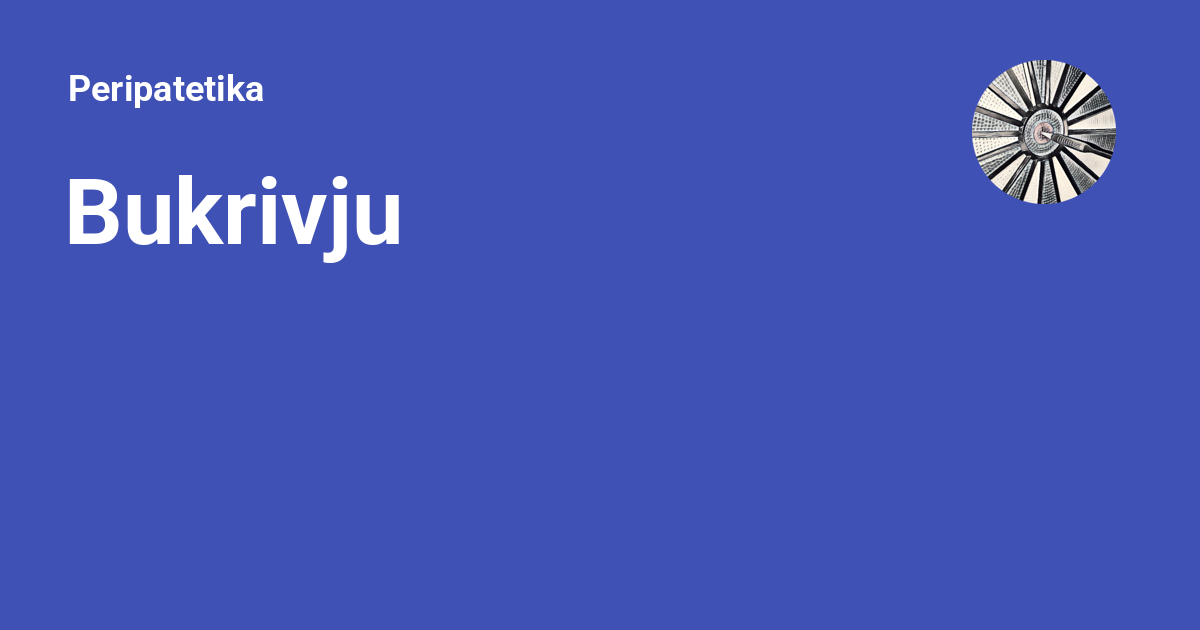
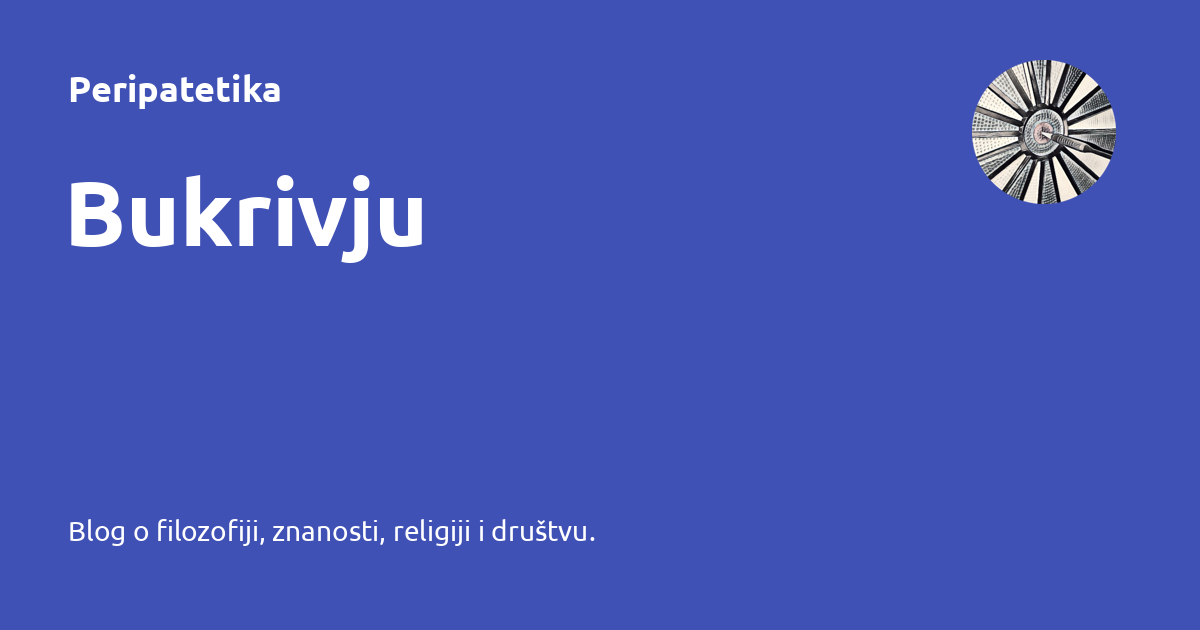
Deployed fa14e22 with MkDocs version: 1.6.1

Changed region(s): [[0.0617, 0.2714, 0.37, 0.4222], [0.0617, 0.8143, 0.4933, 0.8746], [0.0617, 0.1206, 0.2467, 0.181]]

diff --git a/zen-umjetnost-odrzavanja-motocikla-1/index.html b/zen-umjetnost-odrzavanja-motocikla-1/index.html
@@ -6,6 +6,8 @@
       <meta charset="utf-8">
       <meta name="viewport" content="width=device-width,initial-scale=1">
       
+        <meta name="description" content="Blog o filozofiji, znanosti, religiji i društvu.">
+      
       
       
         <link rel="canonical" href="https://peripatetika.com/zen-umjetnost-odrzavanja-motocikla-1/">
@@ -41,8 +43,8 @@
         
         
         <link rel="preconnect" href="https://fonts.gstatic.com" crossorigin>
-        <link rel="stylesheet" href="https://fonts.googleapis.com/css?family=Roboto:300,300i,400,400i,700,700i%7CRoboto+Mono:400,400i,700,700i&display=fallback">
-        <style>:root{--md-text-font:"Roboto";--md-code-font:"Roboto Mono"}</style>
+        <link rel="stylesheet" href="https://fonts.googleapis.com/css?family=Ubuntu:300,300i,400,400i,700,700i%7CRoboto+Mono:400,400i,700,700i&display=fallback">
+        <style>:root{--md-text-font:"Ubuntu";--md-code-font:"Roboto Mono"}</style>
       
     
     
@@ -59,7 +61,7 @@
       
         <meta  property="og:title"  content="Zen i umjetnost održavanja motocikla (1. dio) - Peripatetika" >
       
-        <meta  property="og:description"  content="None" >
+        <meta  property="og:description"  content="Blog o filozofiji, znanosti, religiji i društvu." >
       
         <meta  property="og:image"  content="https://peripatetika.com/assets/images/social/posts/2025_4_ZAMM_1.png" >
       
@@ -75,7 +77,7 @@
       
         <meta  name="twitter:title"  content="Zen i umjetnost održavanja motocikla (1. dio) - Peripatetika" >
       
-        <meta  name="twitter:description"  content="None" >
+        <meta  name="twitter:description"  content="Blog o filozofiji, znanosti, religiji i društvu." >
       
         <meta  name="twitter:image"  content="https://peripatetika.com/assets/images/social/posts/2025_4_ZAMM_1.png" >
       

diff --git a/par-rijeci-o-determinizmu/index.html b/par-rijeci-o-determinizmu/index.html
@@ -6,6 +6,8 @@
       <meta charset="utf-8">
       <meta name="viewport" content="width=device-width,initial-scale=1">
       
+        <meta name="description" content="Blog o filozofiji, znanosti, religiji i društvu.">
+      
       
       
         <link rel="canonical" href="https://peripatetika.com/par-rijeci-o-determinizmu/">
@@ -41,8 +43,8 @@
         
         
         <link rel="preconnect" href="https://fonts.gstatic.com" crossorigin>
-        <link rel="stylesheet" href="https://fonts.googleapis.com/css?family=Roboto:300,300i,400,400i,700,700i%7CRoboto+Mono:400,400i,700,700i&display=fallback">
-        <style>:root{--md-text-font:"Roboto";--md-code-font:"Roboto Mono"}</style>
+        <link rel="stylesheet" href="https://fonts.googleapis.com/css?family=Ubuntu:300,300i,400,400i,700,700i%7CRoboto+Mono:400,400i,700,700i&display=fallback">
+        <style>:root{--md-text-font:"Ubuntu";--md-code-font:"Roboto Mono"}</style>
       
     
     
@@ -59,7 +61,7 @@
       
         <meta  property="og:title"  content="Par riječi o determinizmu - Peripatetika" >
       
-        <meta  property="og:description"  content="None" >
+        <meta  property="og:description"  content="Blog o filozofiji, znanosti, religiji i društvu." >
       
         <meta  property="og:image"  content="https://peripatetika.com/assets/images/social/posts/2025_3_determinism.png" >
       
@@ -75,7 +77,7 @@
       
         <meta  name="twitter:title"  content="Par riječi o determinizmu - Peripatetika" >
       
-        <meta  name="twitter:description"  content="None" >
+        <meta  name="twitter:description"  content="Blog o filozofiji, znanosti, religiji i društvu." >
       
         <meta  name="twitter:image"  content="https://peripatetika.com/assets/images/social/posts/2025_3_determinism.png" >
       

diff --git a/category/filozofija/index.html b/category/filozofija/index.html
@@ -6,6 +6,8 @@
       <meta charset="utf-8">
       <meta name="viewport" content="width=device-width,initial-scale=1">
       
+        <meta name="description" content="Blog o filozofiji, znanosti, religiji i društvu.">
+      
       
       
         <link rel="canonical" href="https://peripatetika.com/category/filozofija/">
@@ -43,8 +45,8 @@
         
         
         <link rel="preconnect" href="https://fonts.gstatic.com" crossorigin>
-        <link rel="stylesheet" href="https://fonts.googleapis.com/css?family=Roboto:300,300i,400,400i,700,700i%7CRoboto+Mono:400,400i,700,700i&display=fallback">
-        <style>:root{--md-text-font:"Roboto";--md-code-font:"Roboto Mono"}</style>
+        <link rel="stylesheet" href="https://fonts.googleapis.com/css?family=Ubuntu:300,300i,400,400i,700,700i%7CRoboto+Mono:400,400i,700,700i&display=fallback">
+        <style>:root{--md-text-font:"Ubuntu";--md-code-font:"Roboto Mono"}</style>
       
     
     
@@ -61,7 +63,7 @@
       
         <meta  property="og:title"  content="Filozofija - Peripatetika" >
       
-        <meta  property="og:description"  content="None" >
+        <meta  property="og:description"  content="Blog o filozofiji, znanosti, religiji i društvu." >
       
         <meta  property="og:image"  content="https://peripatetika.com/assets/images/social/category/filozofija.png" >
       
@@ -77,7 +79,7 @@
       
         <meta  name="twitter:title"  content="Filozofija - Peripatetika" >
       
-        <meta  name="twitter:description"  content="None" >
+        <meta  name="twitter:description"  content="Blog o filozofiji, znanosti, religiji i društvu." >
       
         <meta  name="twitter:image"  content="https://peripatetika.com/assets/images/social/category/filozofija.png" >
       

diff --git a/category/bukrivju/index.html b/category/bukrivju/index.html
@@ -6,6 +6,8 @@
       <meta charset="utf-8">
       <meta name="viewport" content="width=device-width,initial-scale=1">
       
+        <meta name="description" content="Blog o filozofiji, znanosti, religiji i društvu.">
+      
       
       
         <link rel="canonical" href="https://peripatetika.com/category/bukrivju/">
@@ -43,8 +45,8 @@
         
         
         <link rel="preconnect" href="https://fonts.gstatic.com" crossorigin>
-        <link rel="stylesheet" href="https://fonts.googleapis.com/css?family=Roboto:300,300i,400,400i,700,700i%7CRoboto+Mono:400,400i,700,700i&display=fallback">
-        <style>:root{--md-text-font:"Roboto";--md-code-font:"Roboto Mono"}</style>
+        <link rel="stylesheet" href="https://fonts.googleapis.com/css?family=Ubuntu:300,300i,400,400i,700,700i%7CRoboto+Mono:400,400i,700,700i&display=fallback">
+        <style>:root{--md-text-font:"Ubuntu";--md-code-font:"Roboto Mono"}</style>
       
     
     
@@ -61,7 +63,7 @@
       
         <meta  property="og:title"  content="Bukrivju - Peripatetika" >
       
-        <meta  property="og:description"  content="None" >
+        <meta  property="og:description"  content="Blog o filozofiji, znanosti, religiji i društvu." >
       
         <meta  property="og:image"  content="https://peripatetika.com/assets/images/social/category/bukrivju.png" >
       
@@ -77,7 +79,7 @@
       
         <meta  name="twitter:title"  content="Bukrivju - Peripatetika" >
       
-        <meta  name="twitter:description"  content="None" >
+        <meta  name="twitter:description"  content="Blog o filozofiji, znanosti, religiji i društvu." >
       
         <meta  name="twitter:image"  content="https://peripatetika.com/assets/images/social/category/bukrivju.png" >
       

diff --git a/archive/04/2025/index.html b/archive/04/2025/index.html
@@ -6,6 +6,8 @@
       <meta charset="utf-8">
       <meta name="viewport" content="width=device-width,initial-scale=1">
       
+        <meta name="description" content="Blog o filozofiji, znanosti, religiji i društvu.">
+      
       
       
         <link rel="canonical" href="https://peripatetika.com/archive/04/2025/">
@@ -41,8 +43,8 @@
         
         
         <link rel="preconnect" href="https://fonts.gstatic.com" crossorigin>
-        <link rel="stylesheet" href="https://fonts.googleapis.com/css?family=Roboto:300,300i,400,400i,700,700i%7CRoboto+Mono:400,400i,700,700i&display=fallback">
-        <style>:root{--md-text-font:"Roboto";--md-code-font:"Roboto Mono"}</style>
+        <link rel="stylesheet" href="https://fonts.googleapis.com/css?family=Ubuntu:300,300i,400,400i,700,700i%7CRoboto+Mono:400,400i,700,700i&display=fallback">
+        <style>:root{--md-text-font:"Ubuntu";--md-code-font:"Roboto Mono"}</style>
       
     
     
@@ -59,7 +61,7 @@
       
         <meta  property="og:title"  content="04/2025 - Peripatetika" >
       
-        <meta  property="og:description"  content="None" >
+        <meta  property="og:description"  content="Blog o filozofiji, znanosti, religiji i društvu." >
       
         <meta  property="og:image"  content="https://peripatetika.com/assets/images/social/archive/04/2025.png" >
       
@@ -75,7 +77,7 @@
       
         <meta  name="twitter:title"  content="04/2025 - Peripatetika" >
       
-        <meta  name="twitter:description"  content="None" >
+        <meta  name="twitter:description"  content="Blog o filozofiji, znanosti, religiji i društvu." >
       
         <meta  name="twitter:image"  content="https://peripatetika.com/assets/images/social/archive/04/2025.png" >
       

diff --git a/tags/index.html b/tags/index.html
@@ -6,6 +6,8 @@
       <meta charset="utf-8">
       <meta name="viewport" content="width=device-width,initial-scale=1">
       
+        <meta name="description" content="Blog o filozofiji, znanosti, religiji i društvu.">
+      
       
       
         <link rel="canonical" href="https://peripatetika.com/tags/">
@@ -43,8 +45,8 @@
         
         
         <link rel="preconnect" href="https://fonts.gstatic.com" crossorigin>
-        <link rel="stylesheet" href="https://fonts.googleapis.com/css?family=Roboto:300,300i,400,400i,700,700i%7CRoboto+Mono:400,400i,700,700i&display=fallback">
-        <style>:root{--md-text-font:"Roboto";--md-code-font:"Roboto Mono"}</style>
+        <link rel="stylesheet" href="https://fonts.googleapis.com/css?family=Ubuntu:300,300i,400,400i,700,700i%7CRoboto+Mono:400,400i,700,700i&display=fallback">
+        <style>:root{--md-text-font:"Ubuntu";--md-code-font:"Roboto Mono"}</style>
       
     
     
@@ -61,7 +63,7 @@
       
         <meta  property="og:title"  content="Tags - Peripatetika" >
       
-        <meta  property="og:description"  content="None" >
+        <meta  property="og:description"  content="Blog o filozofiji, znanosti, religiji i društvu." >
       
         <meta  property="og:image"  content="https://peripatetika.com/assets/images/social/tags.png" >
       
@@ -77,7 +79,7 @@
       
         <meta  name="twitter:title"  content="Tags - Peripatetika" >
       
-        <meta  name="twitter:description"  content="None" >
+        <meta  name="twitter:description"  content="Blog o filozofiji, znanosti, religiji i društvu." >
       
         <meta  name="twitter:image"  content="https://peripatetika.com/assets/images/social/tags.png" >
       

diff --git a/index.html b/index.html
@@ -6,6 +6,8 @@
       <meta charset="utf-8">
       <meta name="viewport" content="width=device-width,initial-scale=1">
       
+        <meta name="description" content="Blog o filozofiji, znanosti, religiji i društvu.">
+      
       
       
         <link rel="canonical" href="https://peripatetika.com/">
@@ -41,8 +43,8 @@
         
         
         <link rel="preconnect" href="https://fonts.gstatic.com" crossorigin>
-        <link rel="stylesheet" href="https://fonts.googleapis.com/css?family=Roboto:300,300i,400,400i,700,700i%7CRoboto+Mono:400,400i,700,700i&display=fallback">
-        <style>:root{--md-text-font:"Roboto";--md-code-font:"Roboto Mono"}</style>
+        <link rel="stylesheet" href="https://fonts.googleapis.com/css?family=Ubuntu:300,300i,400,400i,700,700i%7CRoboto+Mono:400,400i,700,700i&display=fallback">
+        <style>:root{--md-text-font:"Ubuntu";--md-code-font:"Roboto Mono"}</style>
       
     
     
@@ -59,7 +61,7 @@
       
         <meta  property="og:title"  content="Peripatetika" >
       
-        <meta  property="og:description"  content="None" >
+        <meta  property="og:description"  content="Blog o filozofiji, znanosti, religiji i društvu." >
       
         <meta  property="og:image"  content="https://peripatetika.com/assets/images/social/index.png" >
       
@@ -75,7 +77,7 @@
       
         <meta  name="twitter:title"  content="Peripatetika" >
       
-        <meta  name="twitter:description"  content="None" >
+        <meta  name="twitter:description"  content="Blog o filozofiji, znanosti, religiji i društvu." >
       
         <meta  name="twitter:image"  content="https://peripatetika.com/assets/images/social/index.png" >
       

diff --git a/404.html b/404.html
@@ -6,6 +6,8 @@
       <meta charset="utf-8">
       <meta name="viewport" content="width=device-width,initial-scale=1">
       
+        <meta name="description" content="Blog o filozofiji, znanosti, religiji i društvu.">
+      
       
       
       
@@ -37,8 +39,8 @@
         
         
         <link rel="preconnect" href="https://fonts.gstatic.com" crossorigin>
-        <link rel="stylesheet" href="https://fonts.googleapis.com/css?family=Roboto:300,300i,400,400i,700,700i%7CRoboto+Mono:400,400i,700,700i&display=fallback">
-        <style>:root{--md-text-font:"Roboto";--md-code-font:"Roboto Mono"}</style>
+        <link rel="stylesheet" href="https://fonts.googleapis.com/css?family=Ubuntu:300,300i,400,400i,700,700i%7CRoboto+Mono:400,400i,700,700i&display=fallback">
+        <style>:root{--md-text-font:"Ubuntu";--md-code-font:"Roboto Mono"}</style>
       
     
     
